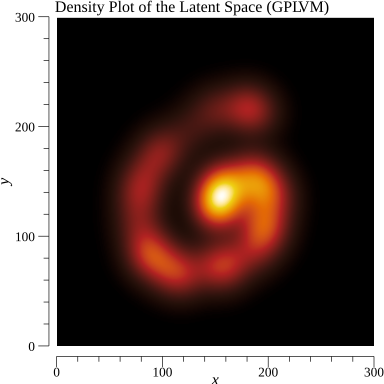
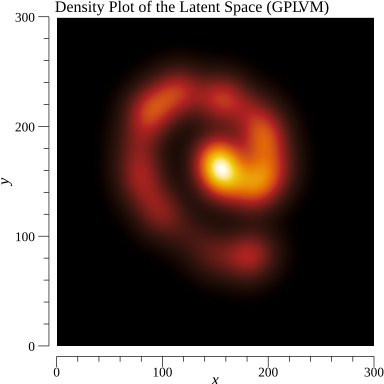
Flipping GPLVM density plot

Changed region(s): [[0.2812, 0.125, 0.8125, 0.8125]]

diff --git a/ml_in_go/gaussian_process_latent_variable_model/gaussian_process_latent_variable_model.go b/ml_in_go/gaussian_process_latent_variable_model/gaussian_process_latent_variable_model.go
@@ -240,7 +240,7 @@ func main() {
         pdf, _ := distmv.NewNormal(mat.Row(nil, i, XPred), mat.NewSymDense(2, []float64{0.01,0.0,0.0,0.01}), randSrc)
         for j:=0; j<300; j++ {
             for k:=0; k<300; k++ {
-                y := YMin+float64(k)/300.0*(YMax-YMin)
+                y := YMin+float64(300-k-1)/300.0*(YMax-YMin)
                 x := XMin+float64(j)/300.0*(XMax-XMin)
                 density.Set(j, k, density.At(j, k) + pdf.Prob([]float64{x, y}))
             }
